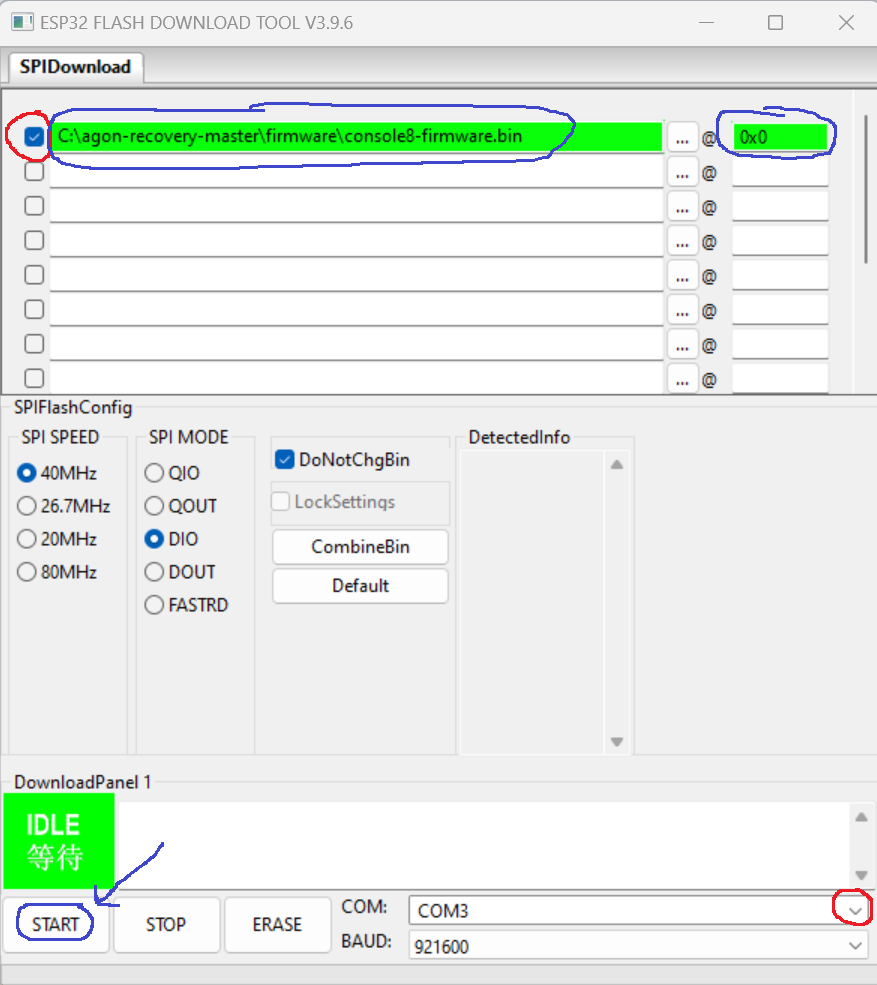
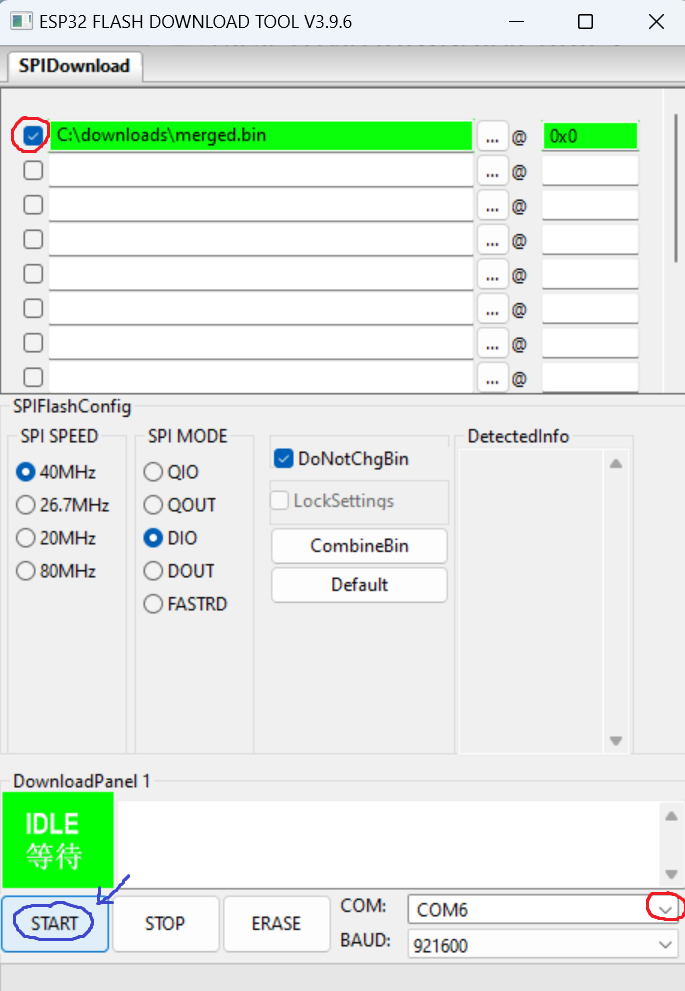
Updated README / flashtool screenshot

diff --git a/README.md b/README.md
@@ -51,13 +51,25 @@ Leave **WorkMode** at *Develop*:
 
 ![espressif settings2](./media/flash-settings2.png)
 
-Next, on the main screen, take care to specify these exact addresses for:
+---
 
-|    Filename    | Address |
-|:--------------:|--------:|
-| merged.bin     |     0x0 |
+Next, on the main screen, take care to specify these address details for a single (pre)merged binary:
 
-And **make sure** to **SELECT** the checkboxes on the left, to select all files to flash.
+|      Filename      | Address |
+|:------------------:|--------:|
+|     merged.bin     |     0x0 |
+
+---
+
+If you are using separate bootloader/partitions/firmware files, the addresses are:
+|      Filename      | Address |
+|:------------------:|--------:|
+| bootloader.bin     |  0x1000 |
+| partitions.bin     |  0x8000 |
+|   firmware.bin     | 0x10000 |
+
+
+And **make sure** to **SELECT** the checkbox(es) on the left, to select all files to flash.
 
 ![espressif settings2](./media/flash-tool.png)
 
@@ -65,6 +77,6 @@ And **make sure** to **SELECT** the checkboxes on the left, to select all files 
 - SPI mode can be DIO, or QIO
 - Please don't use the CombineBin/Default buttons
 - Leave the *DoNotChgBin* option selected
-- provide your own serial port details from the **DROPDOWN** and don't type it in.
+- provide your own serial port details from the **DROPDOWN**; don't type it in.
  
 Then press 'Start' and wait for the tool to finish. It might be necessary to press the 'reset' button after the tool is done.
